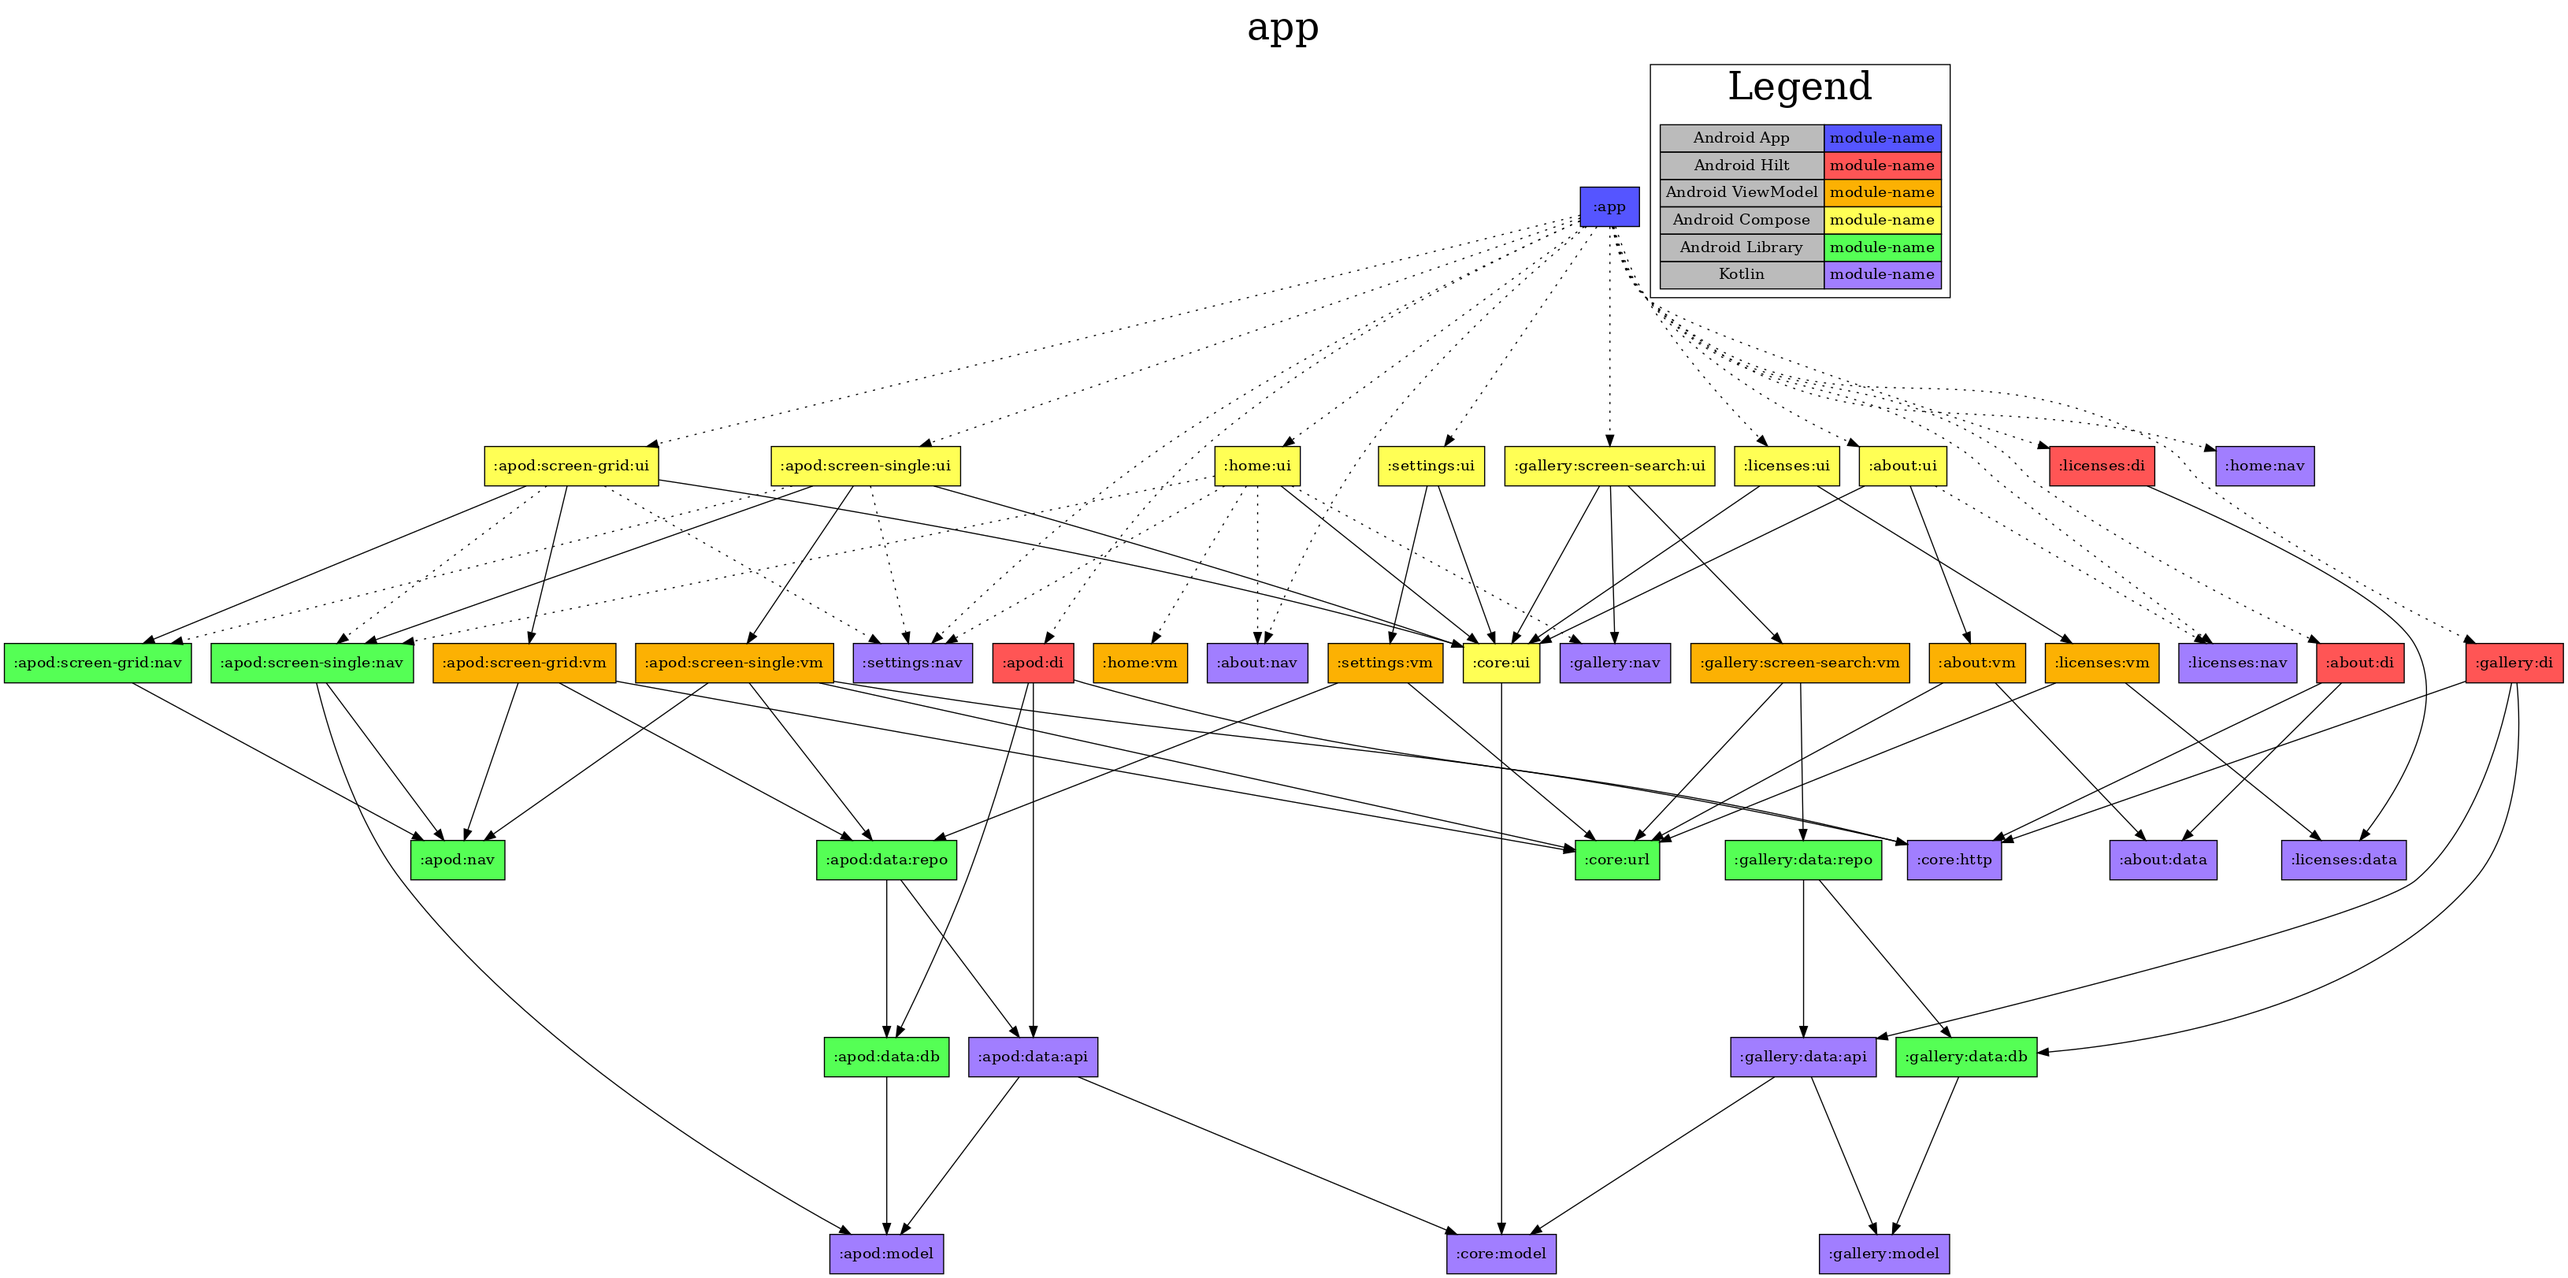
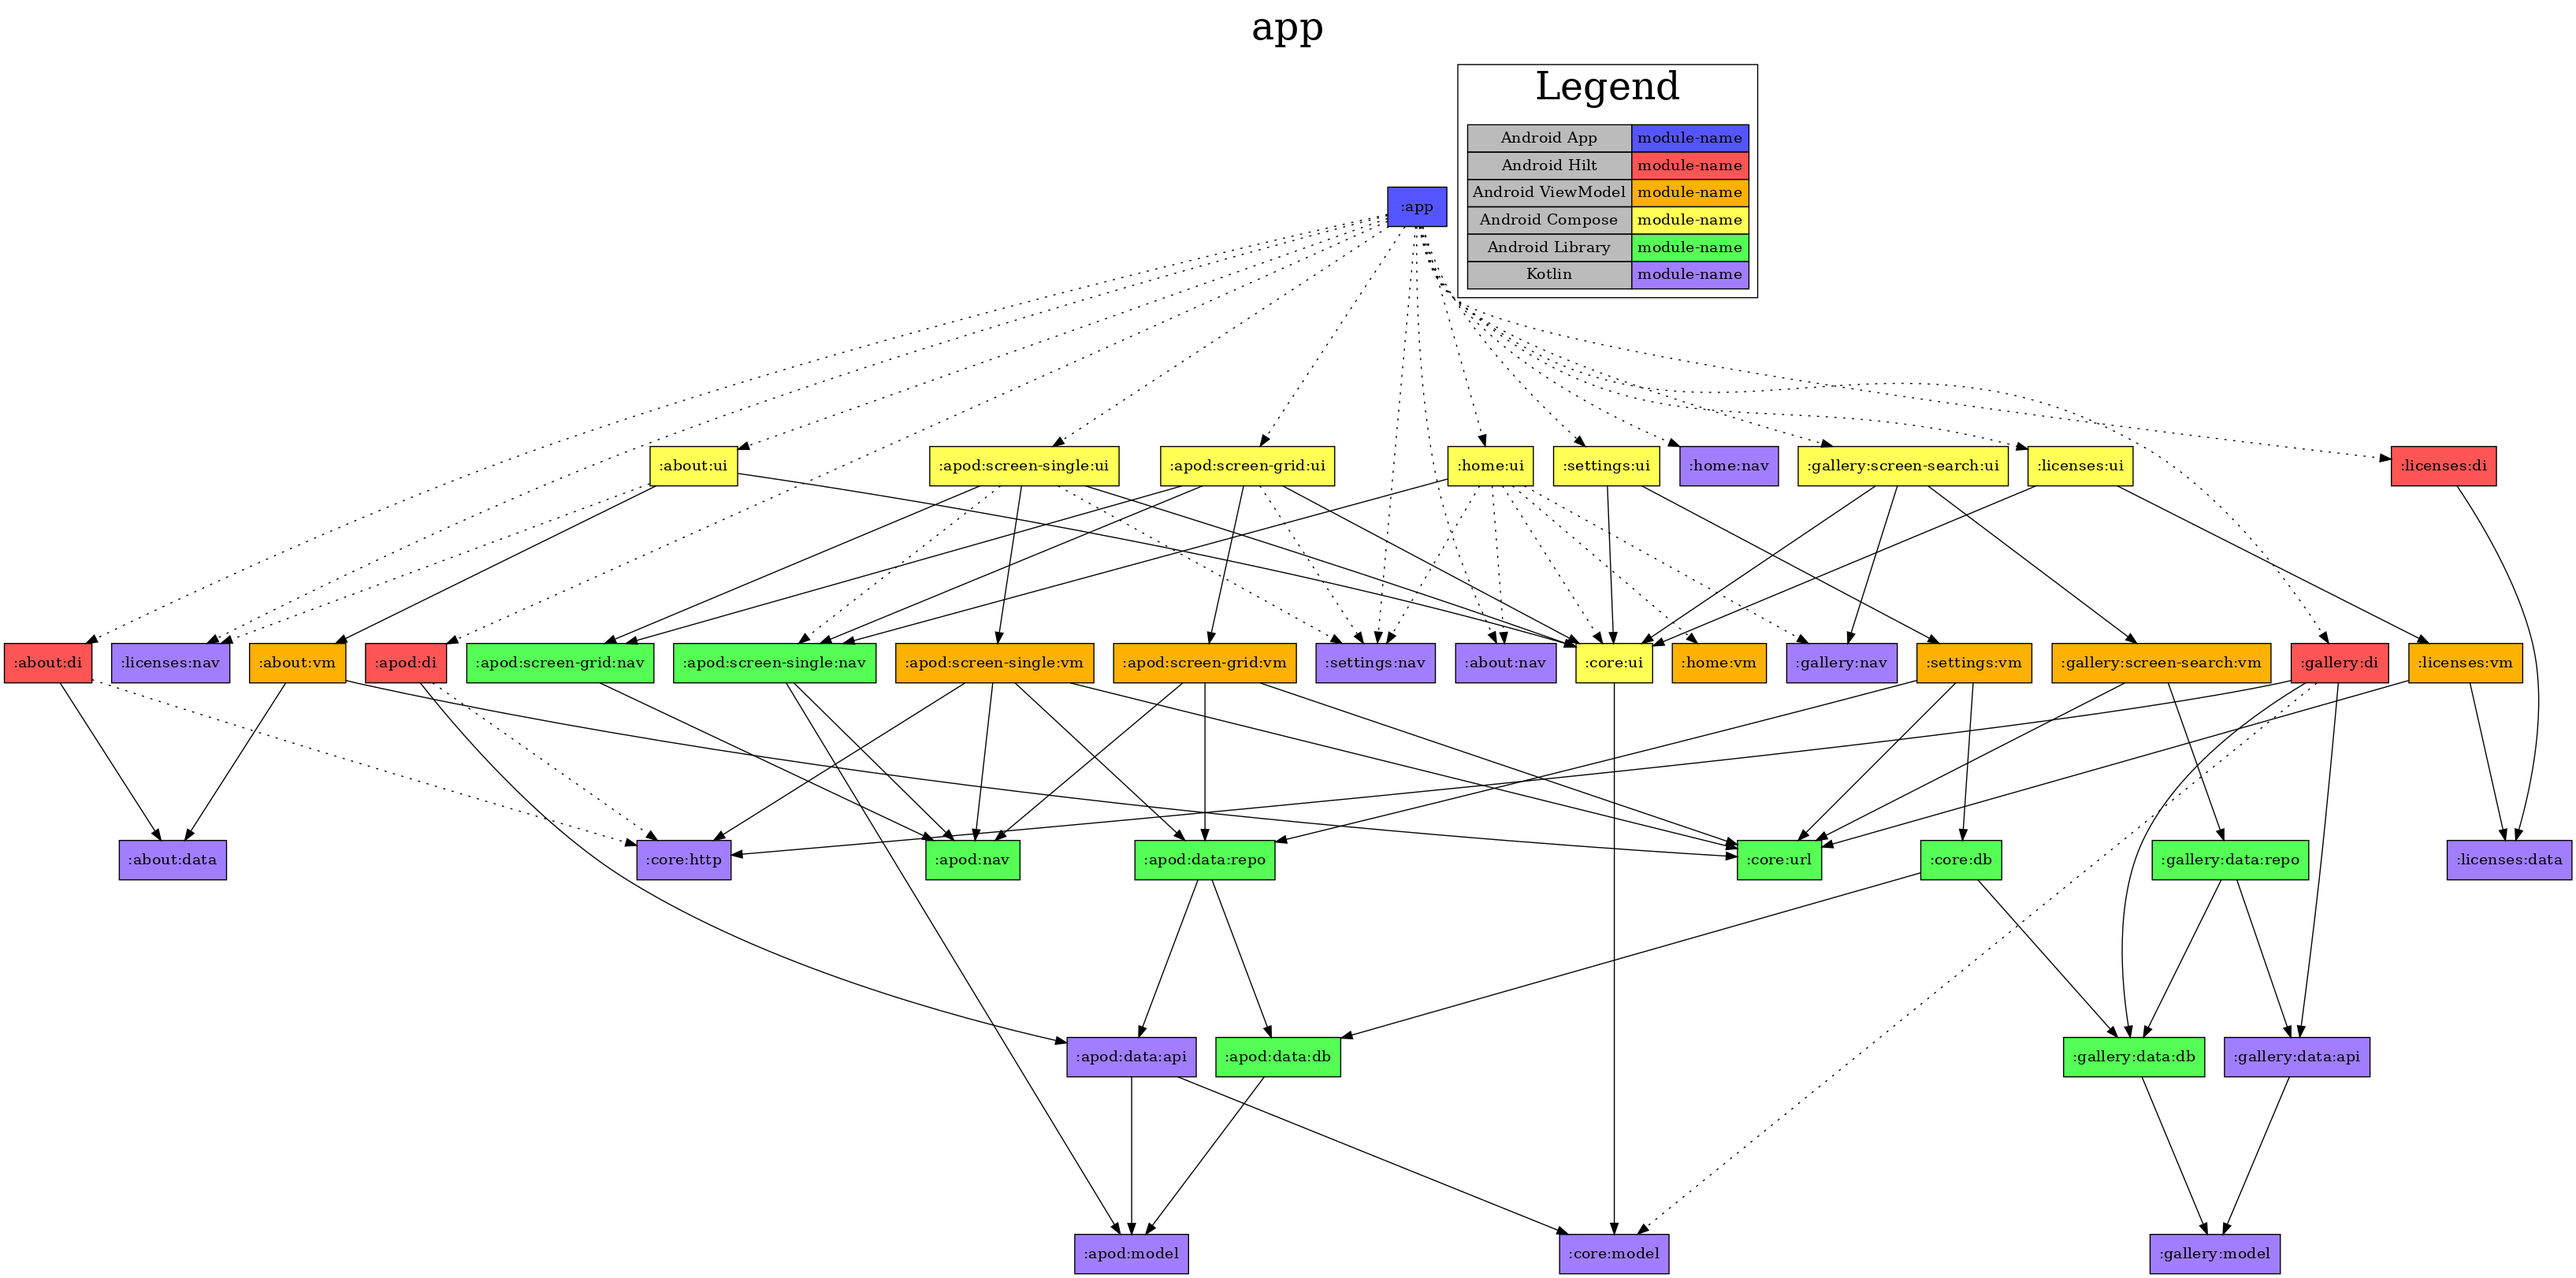
Add core:db

diff --git a/modules/settings/vm/src/main/kotlin/nasa/settings/vm/DatabaseClearer.kt b/modules/settings/vm/src/main/kotlin/nasa/settings/vm/DatabaseClearer.kt
@@ -1,0 +1,44 @@
+package nasa.settings.vm
+
+import alakazam.kotlin.core.IODispatcher
+import kotlinx.coroutines.flow.MutableStateFlow
+import kotlinx.coroutines.flow.StateFlow
+import kotlinx.coroutines.flow.asStateFlow
+import kotlinx.coroutines.flow.update
+import kotlinx.coroutines.withContext
+import nasa.core.db.NasaDatabase
+import timber.log.Timber
+import java.io.File
+import javax.inject.Inject
+
+internal class DatabaseClearer @Inject constructor(
+  private val database: NasaDatabase,
+  private val io: IODispatcher,
+) {
+  private val dbFile = database.openHelper.readableDatabase.path?.let(::File) ?: error("Null file for $database")
+
+  private val mutableFileSize = MutableStateFlow(0.bytes)
+  val fileSize: StateFlow<FileSize> = mutableFileSize.asStateFlow()
+
+  init {
+    updateFileSize()
+  }
+
+  fun updateFileSize() {
+    mutableFileSize.update { dbFile.length().bytes }
+  }
+
+  suspend fun clear(): Boolean = try {
+    withContext(io) {
+      database.close()
+      database.clearAllTables()
+    }
+    true
+  } catch (e: Exception) {
+    Timber.w(e, "Failed clearing database")
+    false
+  } finally {
+    runCatching { dbFile.delete() }
+    mutableFileSize.update { dbFile.length().bytes }
+  }
+}

diff --git a/app/src/main/kotlin/nasa/android/di/DatabaseModule.kt b/app/src/main/kotlin/nasa/android/di/DatabaseModule.kt
@@ -1,4 +1,4 @@
-package nasa.apod.di
+package nasa.android.di
 
 import android.content.Context
 import androidx.room.Room
@@ -7,16 +7,17 @@ import dagger.Provides
 import dagger.hilt.InstallIn
 import dagger.hilt.components.SingletonComponent
 import nasa.apod.data.db.ApodDao
-import nasa.apod.data.db.ApodDatabase
+import nasa.core.db.NasaDatabase
+import nasa.gallery.data.db.GalleryDao
 import javax.inject.Singleton
 
 @Module
 @InstallIn(SingletonComponent::class)
-internal class ApodDatabaseModule {
+internal class DatabaseModule {
   @Provides
   @Singleton
-  fun db(context: Context): ApodDatabase {
-    return Room.databaseBuilder(context, ApodDatabase::class.java, name = "apod.db")
+  fun db(context: Context): NasaDatabase {
+    return Room.databaseBuilder(context, NasaDatabase::class.java, name = "nasa.db")
       .fallbackToDestructiveMigration()
       .addMigrations(
         // TBC
@@ -26,5 +27,9 @@ internal class ApodDatabaseModule {
 
   @Provides
   @Singleton
-  fun apodDao(db: ApodDatabase): ApodDao = db.apodDao()
+  fun apodDao(db: NasaDatabase): ApodDao = db.apodDao()
+
+  @Provides
+  @Singleton
+  fun galleryDao(db: NasaDatabase): GalleryDao = db.galleryDao()
 }

diff --git a/modules/settings/vm/src/test/kotlin/nasa/settings/vm/SettingsViewModelTest.kt b/modules/settings/vm/src/test/kotlin/nasa/settings/vm/SettingsViewModelTest.kt
@@ -12,10 +12,10 @@ import io.mockk.mockk
 import io.mockk.verify
 import kotlinx.coroutines.test.runTest
 import nasa.apod.data.db.ApodDao
-import nasa.apod.data.db.ApodDatabase
-import nasa.apod.data.repo.DatabaseClearer
+import nasa.core.db.NasaDatabase
 import nasa.core.model.NASA_API_URL
 import nasa.core.url.UrlOpener
+import net.lachlanmckee.timberjunit.TimberTestRule
 import org.junit.Before
 import org.junit.Rule
 import org.junit.Test
@@ -26,10 +26,13 @@ import kotlin.test.assertEquals
 @RunWith(RobolectricTestRunner::class)
 class SettingsViewModelTest {
   @get:Rule
-  val databaseRule = RoomDatabaseRule(ApodDatabase::class)
+  val databaseRule = RoomDatabaseRule(NasaDatabase::class, allowMainThread = true)
 
   @get:Rule
   val coroutineRule = CoroutineRule()
+
+  @get:Rule
+  val timberRule = TimberTestRule.logAllWhenTestFails()!!
 
   // real
   private lateinit var viewModel: SettingsViewModel
@@ -52,7 +55,6 @@ class SettingsViewModelTest {
     databaseClearer = DatabaseClearer(
       io = IODispatcher(coroutineRule.dispatcher),
       database = databaseRule.database,
-      dao = dao,
     )
 
     viewModel = SettingsViewModel(

diff --git a/modules/settings/vm/src/main/kotlin/nasa/settings/vm/SettingsViewModel.kt b/modules/settings/vm/src/main/kotlin/nasa/settings/vm/SettingsViewModel.kt
@@ -8,11 +8,9 @@ import kotlinx.coroutines.flow.MutableStateFlow
 import kotlinx.coroutines.flow.SharingStarted
 import kotlinx.coroutines.flow.StateFlow
 import kotlinx.coroutines.flow.asStateFlow
-import kotlinx.coroutines.flow.map
 import kotlinx.coroutines.flow.stateIn
 import kotlinx.coroutines.flow.update
 import kotlinx.coroutines.launch
-import nasa.apod.data.repo.DatabaseClearer
 import nasa.core.model.NASA_API_URL
 import nasa.core.url.UrlOpener
 import javax.inject.Inject
@@ -28,8 +26,7 @@ class SettingsViewModel @Inject internal constructor(
   val cacheSize: StateFlow<FileSize> = mutableCacheSize.asStateFlow()
 
   val databaseSize: StateFlow<FileSize> = databaseClearer
-    .fileSize()
-    .map { it.bytes }
+    .fileSize
     .stateIn(viewModelScope, SharingStarted.Eagerly, initialValue = 0.bytes)
 
   init {
@@ -59,5 +56,6 @@ class SettingsViewModel @Inject internal constructor(
 
   fun refreshCacheSize() {
     mutableCacheSize.update { imageCache.calculateSize() }
+    databaseClearer.updateFileSize()
   }
 }

diff --git a/modules/apod/data/repo/src/test/kotlin/nasa/apod/data/repo/SingleApodRepositoryTest.kt b/modules/apod/data/repo/src/test/kotlin/nasa/apod/data/repo/SingleApodRepositoryTest.kt
@@ -9,9 +9,9 @@ import kotlinx.datetime.LocalDate
 import nasa.apod.data.api.ApodApi
 import nasa.apod.data.api.ApodJson
 import nasa.apod.data.db.ApodDao
-import nasa.apod.data.db.ApodDatabase
 import nasa.apod.model.ApodItem
 import nasa.apod.model.ApodMediaType
+import nasa.core.db.NasaDatabase
 import nasa.core.model.ApiKey
 import nasa.test.http.MockWebServerRule
 import net.lachlanmckee.timberjunit.TimberTestRule
@@ -31,7 +31,7 @@ class SingleApodRepositoryTest {
   val coroutineRule = CoroutineRule()
 
   @get:Rule
-  val databaseRule = RoomDatabaseRule(ApodDatabase::class)
+  val databaseRule = RoomDatabaseRule(NasaDatabase::class)
 
   @get:Rule
   val webServerRule = MockWebServerRule()

diff --git a/modules/core/db/src/main/kotlin/nasa/core/db/NasaDatabase.kt b/modules/core/db/src/main/kotlin/nasa/core/db/NasaDatabase.kt
@@ -1,0 +1,26 @@
+package nasa.core.db
+
+import androidx.room.Database
+import androidx.room.RoomDatabase
+import androidx.room.TypeConverters
+import nasa.apod.data.db.ApodDao
+import nasa.apod.data.db.ApodEntity
+import nasa.gallery.data.db.GalleryDao
+import nasa.gallery.data.db.GalleryEntity
+
+@Database(
+  version = 1,
+  exportSchema = true,
+  entities = [
+    ApodEntity::class,
+    GalleryEntity::class,
+  ],
+)
+@TypeConverters(
+  LocalDateTypeConverter::class,
+  ApodMediaTypeConverter::class,
+)
+abstract class NasaDatabase : RoomDatabase() {
+  abstract fun apodDao(): ApodDao
+  abstract fun galleryDao(): GalleryDao
+}

diff --git a/modules/apod/data/repo/src/test/kotlin/nasa/apod/data/repo/MultipleApodRepositoryTest.kt b/modules/apod/data/repo/src/test/kotlin/nasa/apod/data/repo/MultipleApodRepositoryTest.kt
@@ -10,7 +10,7 @@ import kotlinx.datetime.LocalDate
 import nasa.apod.data.api.ApodApi
 import nasa.apod.data.api.ApodJson
 import nasa.apod.data.db.ApodDao
-import nasa.apod.data.db.ApodDatabase
+import nasa.core.db.NasaDatabase
 import nasa.core.model.ApiKey
 import nasa.test.http.MockWebServerRule
 import net.lachlanmckee.timberjunit.TimberTestRule
@@ -29,7 +29,7 @@ class MultipleApodRepositoryTest {
   val coroutineRule = CoroutineRule()
 
   @get:Rule
-  val databaseRule = RoomDatabaseRule(ApodDatabase::class)
+  val databaseRule = RoomDatabaseRule(NasaDatabase::class)
 
   @get:Rule
   val webServerRule = MockWebServerRule()

diff --git a/modules/core/db/src/main/kotlin/nasa/core/db/ApodMediaTypeConverter.kt b/modules/core/db/src/main/kotlin/nasa/core/db/ApodMediaTypeConverter.kt
@@ -1,7 +1,6 @@
-package nasa.apod.data.db
+package nasa.core.db
 
 import androidx.room.TypeConverter
-import kotlinx.datetime.LocalDate
 import nasa.apod.model.ApodMediaType
 
 internal object ApodMediaTypeConverter {
@@ -10,12 +9,4 @@ internal object ApodMediaTypeConverter {
 
   @TypeConverter
   fun fromString(string: String): ApodMediaType = ApodMediaType.valueOf(string)
-}
-
-internal object LocalDateTypeConverter {
-  @TypeConverter
-  fun toString(date: LocalDate): String = date.toString()
-
-  @TypeConverter
-  fun fromString(string: String): LocalDate = LocalDate.parse(string)
 }

diff --git a/modules/apod/data/db/src/test/kotlin/nasa/apod/data/db/ApodDaoTest.kt b/modules/apod/data/db/src/test/kotlin/nasa/apod/data/db/ApodDaoTest.kt
@@ -5,6 +5,7 @@ import app.cash.turbine.test
 import kotlinx.coroutines.test.runTest
 import kotlinx.datetime.LocalDate
 import nasa.apod.model.ApodMediaType
+import nasa.core.db.NasaDatabase
 import org.junit.Before
 import org.junit.Rule
 import org.junit.Test
@@ -16,7 +17,7 @@ import kotlin.test.assertNull
 @RunWith(RobolectricTestRunner::class)
 class ApodDaoTest {
   @get:Rule
-  val databaseRule = RoomDatabaseRule(ApodDatabase::class)
+  val databaseRule = RoomDatabaseRule(NasaDatabase::class)
 
   private lateinit var apodDao: ApodDao
 

diff --git a/modules/core/db/src/main/kotlin/nasa/core/db/LocalDateTypeConverter.kt b/modules/core/db/src/main/kotlin/nasa/core/db/LocalDateTypeConverter.kt
@@ -1,0 +1,12 @@
+package nasa.core.db
+
+import androidx.room.TypeConverter
+import kotlinx.datetime.LocalDate
+
+internal object LocalDateTypeConverter {
+  @TypeConverter
+  fun toString(date: LocalDate): String = date.toString()
+
+  @TypeConverter
+  fun fromString(string: String): LocalDate = LocalDate.parse(string)
+}
